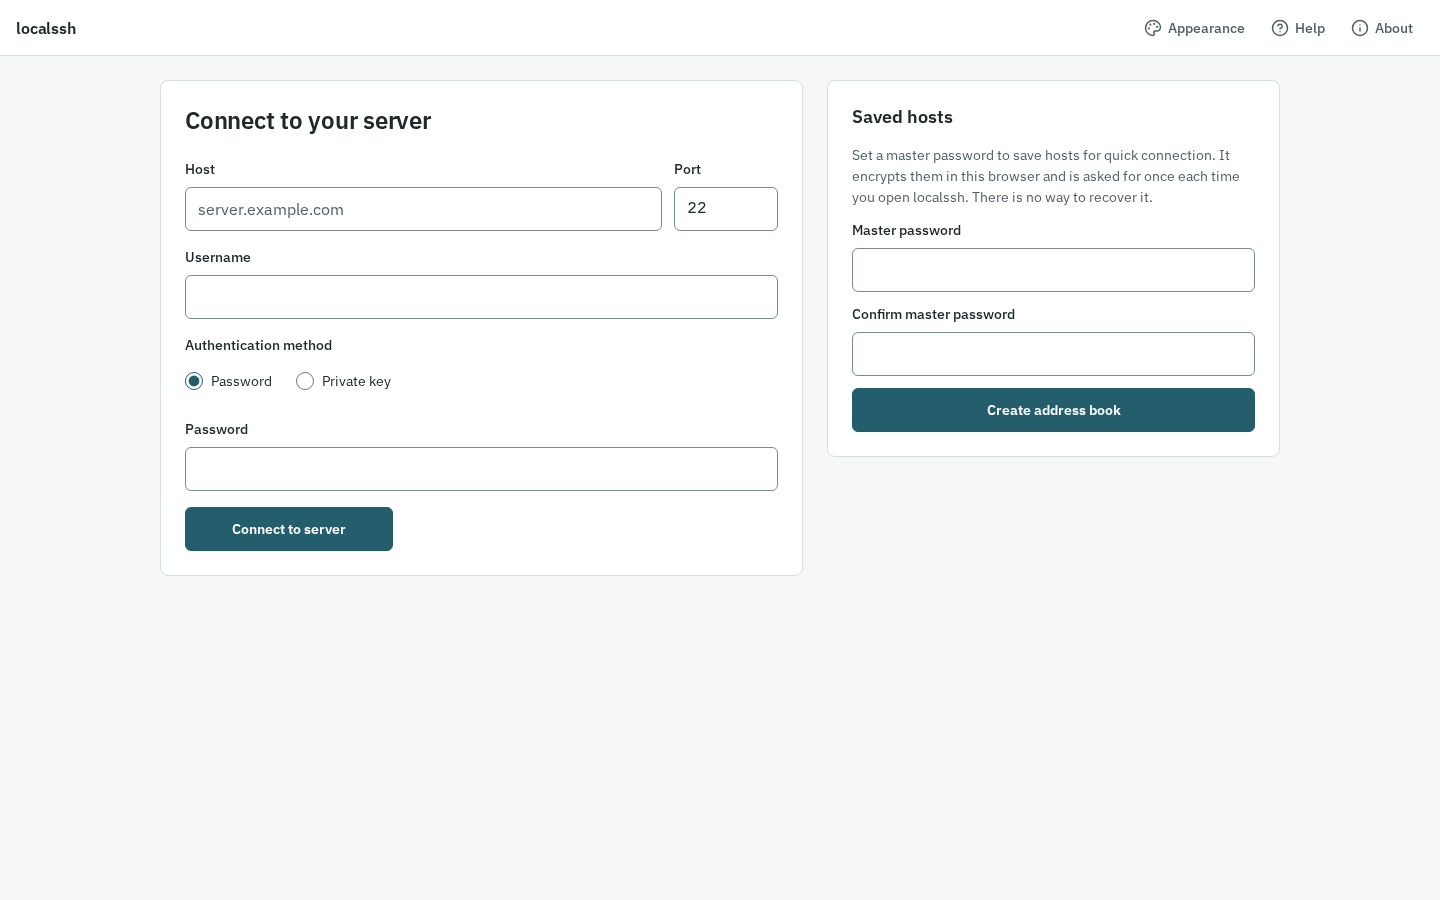
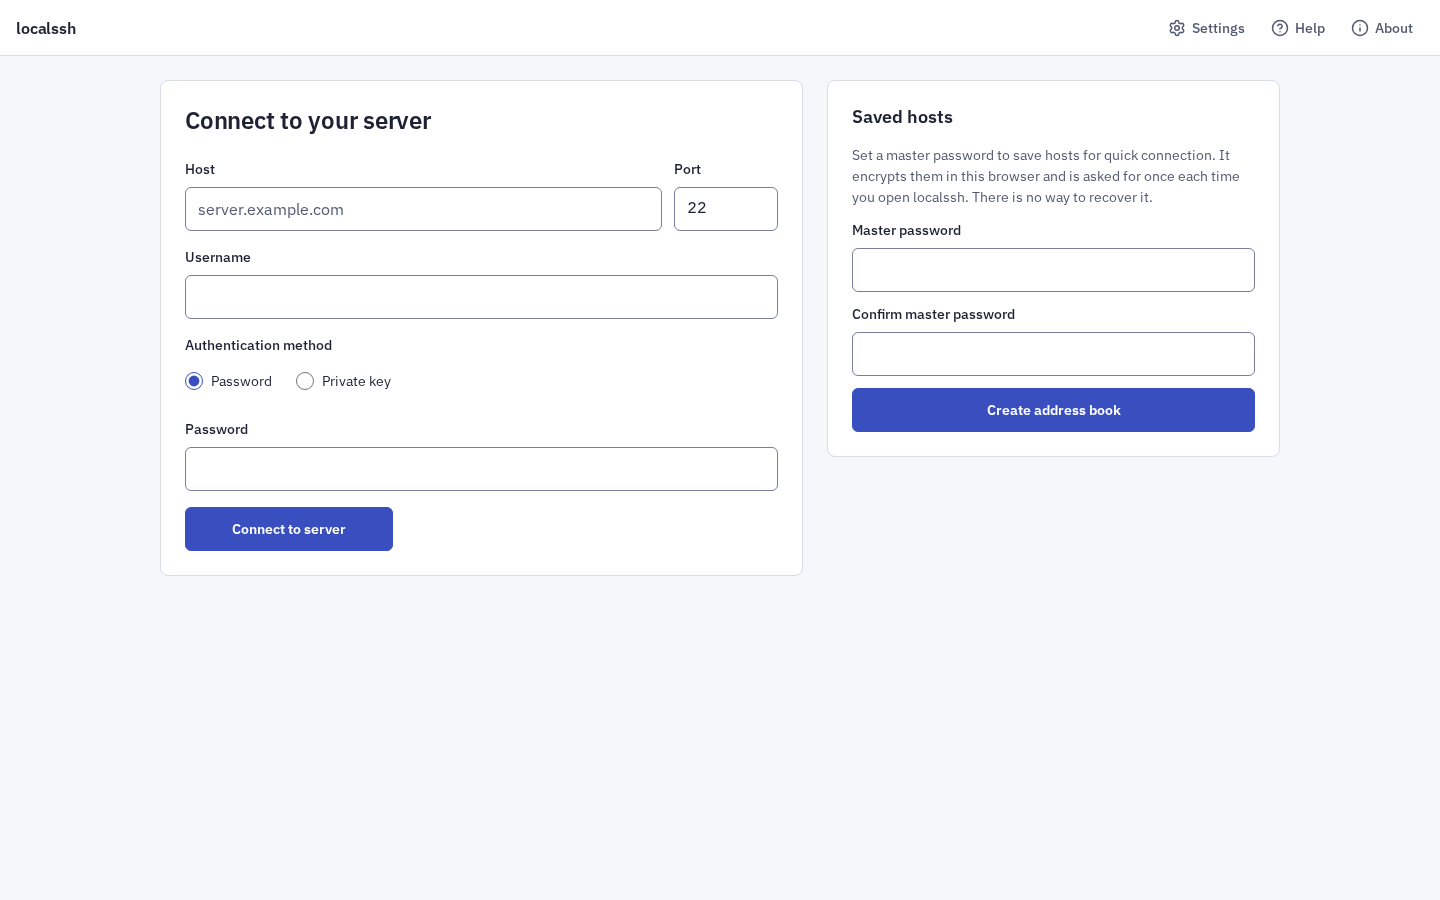
docs: update README screenshot and touch paste, CSP, and Home Screen notes
Replace the README screenshots with one current connect screen. Describe
paste as a long press on the prompt line, note the Home Screen app's
separate storage, and state the wider connect-src policy.

diff --git a/frontend/src/helpTopics.ts b/frontend/src/helpTopics.ts
@@ -50,6 +50,7 @@ export const HELP_TOPICS: readonly HelpTopic[] = [
     paragraphs: [
       "Create an address book with a master password, then select Save current host. Choose whether to save the host, username, or password. Saved entries are encrypted in this browser.",
       "Unlock saved hosts once per page load. There is no master password recovery. If you forget it, you must delete the address book and start again.",
+      "On iPhone and iPad, a Home Screen app keeps its storage separate from Safari, as far as we know. Saved hosts and known host keys you set up in Safari do not carry over to it, and the reverse. Save them again in the one you use.",
     ],
   },
   {
@@ -60,7 +61,7 @@ export const HELP_TOPICS: readonly HelpTopic[] = [
       "Select New terminal to connect to another server without closing your open shells. On a phone, select the target to open Open terminals and switch shells; on desktop, select a tab. Close disconnects only that shell. Each terminal keeps its own output and size. With background keep-alive enabled, leaving the page holds the session for the chosen time; Off closes it when the connection drops.",
       "If another connection needs a host-key check, select Return to open terminal to keep working. Select the connecting tab to return to the check.",
       "On a touch screen, the key bar shows the keys that fit. More keys opens the rest and replaces the on-screen keyboard until closed. Tap Ctrl or Alt once for the next key, twice to lock it, and a third time to turn it off. Use Text smaller and Text larger to change font size; use Settings, Key bar to reorder, add, remove, or reset keys.",
-      "On touch screens, drag with one finger to scroll output. Touch and hold text to select it with the native handles and Copy; touch and hold empty space for the native Paste. Select text in the Actions menu opens a read-only view of all saved output, including scrollback. Use the visible keys for Tab, Esc, and command history.",
+      "On touch screens, drag with one finger to scroll output. Touch and hold text to select it with the native handles and Copy; touch and hold the prompt line for the native Paste. Select text in the Actions menu opens a read-only view of all saved output, including scrollback. Use the visible keys for Tab, Esc, and command history.",
       "Use Settings to change font, size, line height, or color scheme. Saved hosts can use This host settings while the vault is unlocked; otherwise the all-hosts settings apply. In short phone landscape with the keyboard open, the target and key bar share a row at the top.",
     ],
   },
@@ -103,7 +104,7 @@ export const HELP_TOPICS: readonly HelpTopic[] = [
     heading: "Copy and paste",
     paragraphs: [
       "On a touch screen, touch and hold text in the terminal to select it, drag the handles, and use the device Copy action. For output beyond the screen, choose Select text in the Actions menu to open a read-only view with the same handles. Clipboard can copy a live terminal selection; if the browser blocks copying, select the text shown in the menu and use the device Copy action.",
-      "To paste, touch and hold empty space in the terminal and choose Paste, which works over plain HTTP. Or open Clipboard and use Paste from clipboard. If browser access is blocked, paste into the box and select Paste text. On desktop, you can also select terminal text and use your browser's copy and paste shortcuts.",
+      "To paste, touch and hold the prompt line and choose Paste, which works over plain HTTP. Or open Clipboard and use Paste from clipboard. If browser access is blocked, paste into the box and select Paste text. On desktop, you can also select terminal text and use your browser's copy and paste shortcuts.",
     ],
   },
   {

diff --git a/README.md b/README.md
@@ -53,9 +53,7 @@ others discover the project.
 
 ## Interface preview
 
-![Current connection form with password and private-key choices](screenshot1.png)
-
-![Two connected terminal tabs with the SFTP file panel open beside the terminal](screenshot2.png)
+![Connection form with password and private-key choices, and the saved hosts panel](screenshot1.png)
 
 See the [user guide](docs/USER-GUIDE.md) for the current controls.
 
@@ -293,9 +291,10 @@ unless `KEEPALIVE_MAX_SECONDS` is set. The relay reports support and its cap at
 `GET /capabilities` in the combined image, or `GET /relay/capabilities` through
 the two-image nginx proxy. A direct standalone relay also answers
 `GET /capabilities`. Cross-origin pages can read this response only when their
-Origin is in `ALLOWED_ORIGINS`; the supplied frontend CSP permits `ws:` and
-`wss:` but only same-origin HTTP requests. Supported deployments use the page
-and relay on the same origin.
+Origin is in `ALLOWED_ORIGINS`. The supplied frontend CSP permits `ws:`,
+`wss:`, `http:`, and `https:` connections so a page can read a relay's
+`/capabilities` on another origin. Supported deployments use the page and relay
+on the same origin.
 
 For resumable sessions, the relay may take up to 90 seconds to detect an
 inactive page before it starts the keep-alive period. Output can stall while
@@ -560,6 +559,14 @@ page, so the terminal refits into whatever the on-screen keyboard leaves and the
 cursor row stays above it. Tapping the terminal raises the keyboard, and
 dismissing it is left to the keyboard's own control.
 
+### Home Screen app
+
+The page ships a web app manifest and Home Screen icons, so "Add to Home Screen"
+on iPhone or iPad gives a localssh icon and a full-screen window with no Safari
+toolbar. A Home Screen app keeps its storage separate from Safari, as far as we
+know (not re-verified on iOS 26): saved hosts and known host keys you set up in
+Safari do not carry over, and the reverse. Pick one and set up your hosts there.
+
 ### Key bar
 
 A touch device gets a key bar along the bottom of the session, carrying the keys
@@ -596,7 +603,8 @@ Keyboard and More keys stay fixed. The order is saved on this device.
 On a phone, drag vertically with one finger to scroll terminal output. A
 horizontal drag or prompt flick sends no shell key; use the visible key bar.
 Touch and hold terminal text to select it with the native handles and Copy
-callout; touch and hold empty space for the native Paste callout. **Select
+callout; touch and hold the prompt line for the native Paste callout. Text on
+the prompt line itself is not selectable. **Select
 text** in the Actions menu opens a read-only view with native text selection
 for scrollback beyond the screen. It also works after a session closes. Desktop and tablet terminal
 gestures remain unchanged.
@@ -604,8 +612,8 @@ gestures remain unchanged.
 ### Clipboard
 
 On touch screens, touch and hold terminal text to select it with the native
-handles and use the device's Copy action; touch and hold empty space for the
-native Paste callout, which works over plain HTTP. For scrollback beyond the
+handles and use the device's Copy action; touch and hold the prompt line for
+the native Paste callout, which works over plain HTTP. For scrollback beyond the
 screen, **Select text** in the Actions menu opens a read-only view with native
 selection handles. A **Clipboard** menu sits in the session toolbar (under **Actions**
 below 1024px wide) for copying a live terminal selection and pasting without a

diff --git a/docs/USER-GUIDE.md b/docs/USER-GUIDE.md
@@ -102,7 +102,7 @@ bar includes Shift Tab and Text smaller/Text larger. **Settings**, **Edit key
 bar** lets you reorder, add, remove, or reset keys. Keyboard and More keys
 stay fixed. Drag vertically with one finger to scroll output; horizontal drags
 and prompt flicks send no shell keys. Touch and hold terminal text to select it with
-native handles and Copy; touch and hold empty space for the native Paste. **Select
+native handles and Copy; touch and hold the prompt line for the native Paste. **Select
 text** in the Actions menu opens a read-only view for scrollback beyond the screen.
 
 Use **Settings** to change font, size, line height, and color scheme. Line
